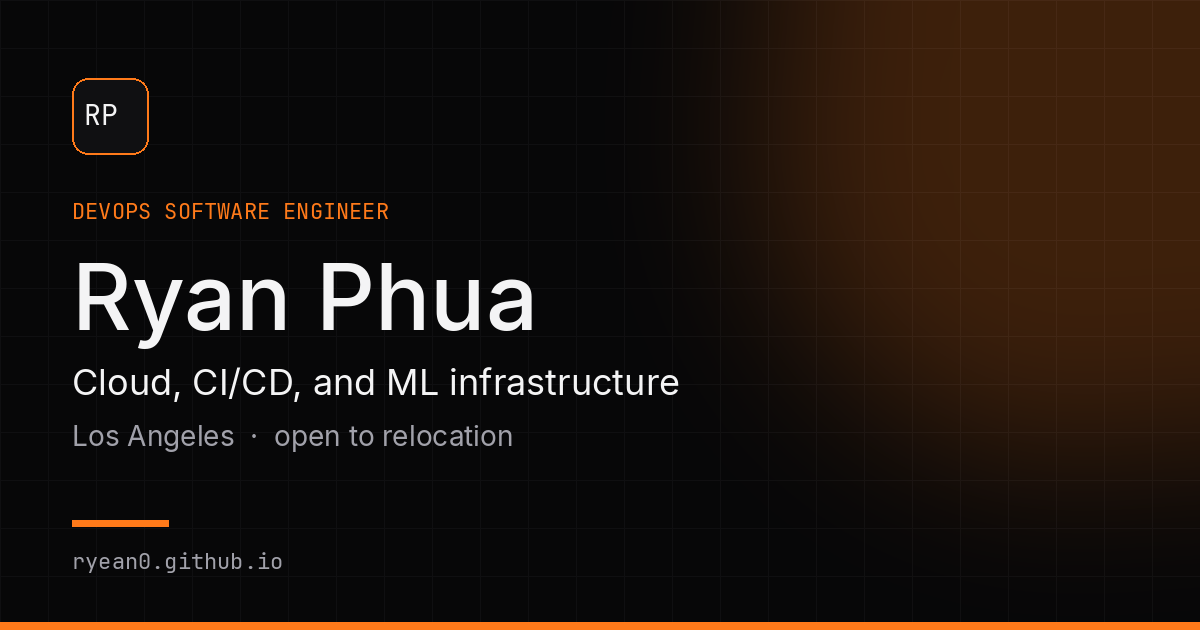
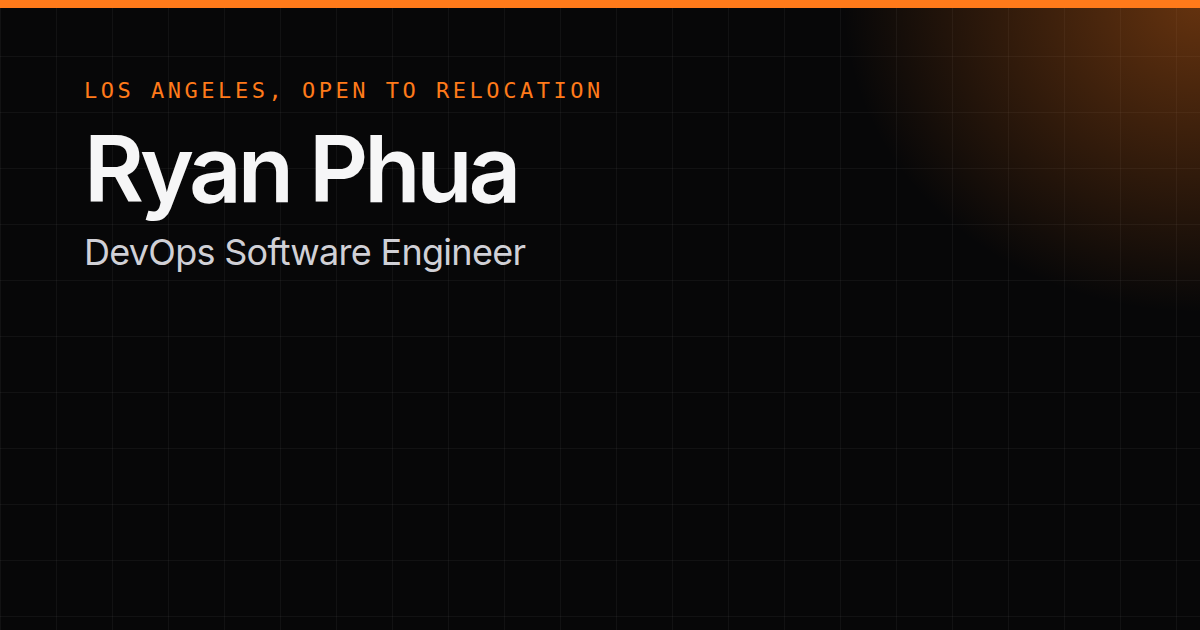
Add share metadata, a link check, and modal keyboard focus.
Publish an Open Graph image and a touch icon, keep focus inside the experience dialog, and fail the test suite when a local asset or external link is broken.

diff --git a/index.html b/index.html
@@ -4,21 +4,28 @@
   <meta charset="utf-8">
   <meta name="viewport" content="width=device-width, initial-scale=1, viewport-fit=cover">
   <title>Ryan Phua · DevOps Software Engineer</title>
-  <meta name="description" content="Ryan Phua is a DevOps software engineer in Los Angeles, open to relocation, specialising in cloud migration of CI/CD automation and ML infrastructure. B.S. Computer Science, UCLA.">
+  <meta name="description" content="Ryan Phua is a DevOps software engineer in Los Angeles, open to relocation. UCLA B.S. Computer Science. Cloud delivery, ML infrastructure, and the Anubys evaluation framework.">
+  <meta name="author" content="Ryan Phua">
+  <meta name="robots" content="index, follow">
   <link rel="canonical" href="https://ryean0.github.io/">
   <meta property="og:type" content="website">
+  <meta property="og:site_name" content="Ryan Phua">
+  <meta property="og:locale" content="en_US">
   <meta property="og:url" content="https://ryean0.github.io/">
   <meta property="og:title" content="Ryan Phua · DevOps Software Engineer">
-  <meta property="og:description" content="Cloud CI/CD migration and ML infrastructure. B.S. Computer Science, UCLA. Los Angeles, open to relocation.">
+  <meta property="og:description" content="DevOps software engineer in Los Angeles, open to relocation. UCLA B.S. Computer Science. Cloud delivery and ML infrastructure.">
   <meta property="og:image" content="https://ryean0.github.io/og.png">
   <meta property="og:image:width" content="1200">
   <meta property="og:image:height" content="630">
+  <meta property="og:image:alt" content="Ryan Phua, DevOps Software Engineer. Los Angeles, open to relocation.">
   <meta name="twitter:card" content="summary_large_image">
   <meta name="twitter:title" content="Ryan Phua · DevOps Software Engineer">
-  <meta name="twitter:description" content="Cloud CI/CD migration and ML infrastructure. B.S. Computer Science, UCLA. Los Angeles, open to relocation.">
+  <meta name="twitter:description" content="DevOps software engineer in Los Angeles, open to relocation. UCLA B.S. Computer Science. Cloud delivery and ML infrastructure.">
   <meta name="twitter:image" content="https://ryean0.github.io/og.png">
+  <meta name="twitter:image:alt" content="Ryan Phua, DevOps Software Engineer. Los Angeles, open to relocation.">
   <meta name="theme-color" content="#070708">
   <link rel="icon" href="favicon.svg" type="image/svg+xml">
+  <link rel="apple-touch-icon" href="apple-touch-icon.png">
   <link rel="stylesheet" href="css/site.css">
   <script>document.documentElement.classList.add("js");</script>
   <script type="application/ld+json">
@@ -33,6 +40,18 @@
       "@type": "CollegeOrUniversity",
       "name": "University of California, Los Angeles"
     },
+    "hasCredential": [
+      {
+        "@type": "EducationalOccupationalCredential",
+        "name": "AWS Solutions Architect Associate",
+        "credentialCategory": "SAA-C03"
+      },
+      {
+        "@type": "EducationalOccupationalCredential",
+        "name": "Certified AI Security Professional",
+        "credentialCategory": "CAISP"
+      }
+    ],
     "sameAs": [
       "https://github.com/ryean0",
       "https://www.linkedin.com/in/rphua-dev"

diff --git a/test/links.test.js b/test/links.test.js
@@ -1,0 +1,77 @@
+import assert from "node:assert/strict";
+import fs from "node:fs";
+import path from "node:path";
+import { test } from "node:test";
+import { fileURLToPath } from "node:url";
+
+const root = path.resolve(path.dirname(fileURLToPath(import.meta.url)), "..");
+
+const pages = ["index.html", "projects/anubys/index.html", "anubys/index.html"];
+
+function refsIn(rel) {
+  const html = fs.readFileSync(path.join(root, rel), "utf8");
+  return [...html.matchAll(/\b(?:href|src)="([^"]+)"/g)].map((match) => match[1]);
+}
+
+function localPath(page, ref) {
+  const base = new URL(page, "https://ryean0.github.io/");
+  const url = new URL(ref, base);
+  if (url.origin !== "https://ryean0.github.io") return null;
+  let pathname = decodeURIComponent(url.pathname);
+  if (pathname.endsWith("/")) pathname += "index.html";
+  return pathname.replace(/^\//, "");
+}
+
+test("local links and assets resolve, and no verification token is published", () => {
+  const names = fs.readdirSync(root);
+  for (const name of names) {
+    assert.equal(/verification/i.test(name), false, name);
+    assert.equal(name.endsWith(".txt") && name !== "robots.txt", false, name);
+  }
+  const home = fs.readFileSync(path.join(root, "index.html"), "utf8");
+  assert.equal(home.includes("google-site-verification"), false);
+  assert.match(home, /name="robots" content="index, follow"/);
+  assert.equal(fs.existsSync(path.join(root, "apple-touch-icon.png")), true);
+  assert.equal(fs.existsSync(path.join(root, "og.png")), true);
+
+  for (const page of pages) {
+    for (const ref of refsIn(page)) {
+      if (ref.startsWith("#") || ref.startsWith(["mail", "to:"].join("")) || ref.startsWith("data:")) continue;
+      const local = localPath(page, ref);
+      if (!local) continue;
+      const file = path.join(root, local);
+      assert.equal(fs.existsSync(file), true, `${page} -> ${ref}`);
+    }
+  }
+});
+
+test("external links answer", async () => {
+  const seen = new Set();
+  for (const page of pages) {
+    for (const ref of refsIn(page)) {
+      if (!/^https?:\/\//.test(ref)) continue;
+      if (new URL(ref).origin === "https://ryean0.github.io") continue;
+      seen.add(ref);
+    }
+  }
+  assert.ok(seen.size > 0);
+  const broken = [];
+  for (const ref of seen) {
+    const controller = new AbortController();
+    const timer = setTimeout(() => controller.abort(), 12000);
+    try {
+      const response = await fetch(ref, {
+        redirect: "follow",
+        signal: controller.signal,
+        headers: { "user-agent": "ryan-phua-portfolio-link-check" },
+      });
+      const ok = response.status < 400 || [401, 403, 405, 429, 999].includes(response.status);
+      if (!ok) broken.push(`${response.status} ${ref}`);
+    } catch (error) {
+      broken.push(`${error.name} ${ref}`);
+    } finally {
+      clearTimeout(timer);
+    }
+  }
+  assert.deepEqual(broken, []);
+});

diff --git a/js/modal.js b/js/modal.js
@@ -396,6 +396,9 @@ function render(entry, mount, background) {
   const image = document.createElement("img");
   image.src = entry.image;
   image.alt = "";
+  image.decoding = "async";
+  image.width = 1200;
+  image.height = 800;
   background.append(image);
   background.hidden = false;
 
@@ -602,8 +605,33 @@ export function initModals() {
     dialog.classList.toggle("is-reduced", reducedMotion());
     if (!dialog.open) dialog.showModal();
     play(true);
-    dialog.focus();
+    const closeButton = dialog.querySelector("[data-exp-close]");
+    if (closeButton) closeButton.focus();
+    else dialog.focus();
   };
+
+  const focusable = () => [...dialog.querySelectorAll("a[href], button:not([disabled]), [tabindex]:not([tabindex='-1'])")]
+    .filter((node) => !node.closest("[hidden]") && node.getClientRects().length > 0);
+
+  dialog.addEventListener("keydown", (event) => {
+    if (event.key === "Escape" && dialog.open) {
+      event.preventDefault();
+      dismiss();
+      return;
+    }
+    if (event.key !== "Tab" || !dialog.open) return;
+    const nodes = focusable();
+    if (!nodes.length) return;
+    const first = nodes[0];
+    const last = nodes[nodes.length - 1];
+    if (event.shiftKey && document.activeElement === first) {
+      event.preventDefault();
+      last.focus();
+    } else if (!event.shiftKey && document.activeElement === last) {
+      event.preventDefault();
+      first.focus();
+    }
+  });
 
   const closeModal = () => {
     if (!dialog.open || closing) return;

diff --git a/css/site.css b/css/site.css
@@ -144,6 +144,10 @@ a.chip-link {
   font-family: var(--mono); font-size: 0.78rem; letter-spacing: 0.01em;
 }
 a.chip-link:hover { border-color: rgba(var(--accent-rgb), 0.75); color: var(--accent); }
+a.chip-link:focus-visible, a.ext-chip:focus-visible, .exp-tab:focus-visible, .exp-close:focus-visible {
+  outline: 2px solid var(--accent);
+  outline-offset: 3px;
+}
 .resume-download { font-weight: 560; }
 @media (max-width: 380px) {
   .contact-actions { align-items: stretch; }
@@ -207,8 +211,9 @@ a.chip-link:hover { border-color: rgba(var(--accent-rgb), 0.75); color: var(--ac
 }
 .stat-value {
   font-family: var(--mono); font-weight: 500; letter-spacing: -0.04em;
-  font-size: clamp(1.45rem, 1.1rem + 1vw, 1.85rem); color: var(--accent);
+  font-size: clamp(1.15rem, 0.7rem + 1vw, 1.55rem); color: var(--accent);
   text-shadow: 0 0 18px rgba(var(--accent-rgb), 0.28);
+  white-space: nowrap;
 }
 .stat-label { margin-top: 0.25rem; color: var(--ink); font-weight: 520; letter-spacing: -0.02em; }
 .stat-note { margin-top: 0.35rem; color: var(--faint); font-family: var(--mono); font-size: 0.72rem; letter-spacing: 0; }

diff --git a/test/site.test.js b/test/site.test.js
@@ -180,6 +180,9 @@ test("share metadata, favicon, and stylesheet", () => {
   assert.equal(SITE_URL, "https://ryean0.github.io/");
   assert.match(home, /rel="canonical" href="https:\/\/ryean0\.github\.io\/"/);
   assert.match(home, /property="og:image" content="https:\/\/ryean0\.github\.io\/og\.png"/);
+  assert.match(home, /property="og:image:alt"/);
+  assert.match(home, /rel="apple-touch-icon" href="apple-touch-icon.png"/);
+  assert.match(home, /name="robots" content="index, follow"/);
   assert.match(css, /#ff7a1a/);
   assert.match(css, /prefers-reduced-motion:\s*reduce/);
   assert.match(read("favicon.svg"), /#ff7a1a/);

diff --git a/projects/anubys/index.html b/projects/anubys/index.html
@@ -18,7 +18,9 @@
   <meta name="twitter:description" content="A pip-installable Python framework for LLM agent regression testing. 400+ pytest tests on every pull request.">
   <meta name="twitter:image" content="https://ryean0.github.io/og.png">
   <meta name="theme-color" content="#070708">
+  <meta name="robots" content="index, follow">
   <link rel="icon" href="../../favicon.svg" type="image/svg+xml">
+  <link rel="apple-touch-icon" href="../../apple-touch-icon.png">
   <link rel="stylesheet" href="../../css/site.css">
   <script>document.documentElement.classList.add("js");</script>
 </head>
